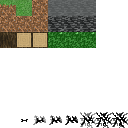
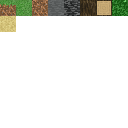
reordered atlas, experimenting with " desert biome

Changed region(s): [[0.0, 0.0, 1.0, 0.375], [0.25, 0.875, 1.0, 1.0], [0.1562, 0.9062, 0.2188, 0.9688]]

diff --git a/src/main.cpp b/src/main.cpp
@@ -61,6 +61,12 @@ bool wireframe = false;
 
 std::list<minecraft::MeshRenderer*> meshRenderer;
 
+// const minecraft::BlockType surface = BlockType::Grass;
+const minecraft::BlockType surface = BlockType::Sand;
+
+// const minecraft::BlockType subsurface = BlockType::Dirt;
+const minecraft::BlockType subsurface = BlockType::Sand;
+
 void FillTreeLayer(minecraft::Chunk& chunk, int layer, int x, int y, int z);
 void genChunks(bool worldGen = true)
 {
@@ -99,22 +105,22 @@ void genChunks(bool worldGen = true)
                             else if (y < h - 6) type = BlockType::Stone;
                             else if (y == h)
                             {
-                                type = BlockType::Grass;
+                                type = surface;
                                 if (CheckProbability(treeProb / 10.0))
                                 {
                                     int max = h + 7 + treeNoise;
                                     for (int y2 = h + 1; y2 <= max; y2++)
                                     {
-                                        FillTreeLayer(*temp, int(max - y2), x, y2, z);
+                                        // FillTreeLayer(*temp, int(max - y2), x, y2, z);
                                     }
                                     type = BlockType::Dirt;
                                 }
                                 else
                                 {
-                                    type = BlockType::Grass;
+                                    type = surface;
                                 }
                             }
-                            else if (y >= h - 6) type = BlockType::Dirt;
+                            else if (y >= h - 6) type = subsurface;
                             temp->SetBlockAt(type, x, y, z);
                         }
                     }

diff --git a/src/minecraft/mesh_renderer.cpp b/src/minecraft/mesh_renderer.cpp
@@ -41,11 +41,13 @@ namespace minecraft
         case BlockType::Stone:
             return {3, 3, 3};
         case BlockType::Bedrock:
-            return {11, 11, 11};
+            return {4, 4, 4};
         case BlockType::Log:
-            return {16, 17, 17};
+            return {5, 6, 6};
         case BlockType::Leaves:
-            return {19, 19, 19};
+            return {7, 7, 7};
+        case BlockType::Sand:
+            return {8, 8, 8};
         default:
             return {0, 0, 0};
         }

diff --git a/src/minecraft/chunk.cpp b/src/minecraft/chunk.cpp
@@ -22,6 +22,8 @@ namespace minecraft
             return glm::vec2(0, 2);
         case BlockType::Leaves:
             return glm::vec2(3, 2);
+        case BlockType::Sand:
+            return glm::vec2(3, 3);
         default:
             return glm::vec2(-1, -1);
         }

diff --git a/src/minecraft/chunk.hpp b/src/minecraft/chunk.hpp
@@ -13,7 +13,7 @@ namespace minecraft
 {
     enum class BlockType : char
     {
-        Air, Grass, Stone, Dirt, Bedrock, Log, Leaves
+        Air, Grass, Stone, Dirt, Bedrock, Log, Leaves, Sand
     };
 
     struct BlockInstanceData
